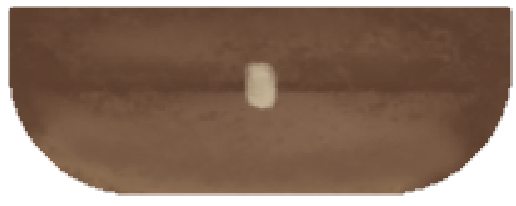
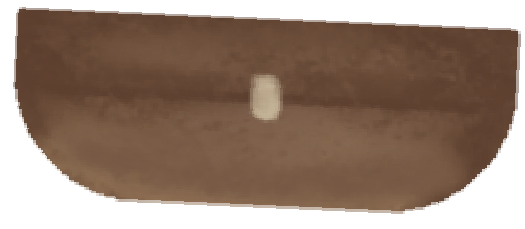
Add Chest and Locker

Changed region(s): [[0.0, 0.0291, 1.0, 0.9612], [0.9302, 0.6117, 0.9612, 0.7282], [0.4651, 0.2913, 0.5271, 0.3495]]

diff --git a/src/scenes/SceneManager.java b/src/scenes/SceneManager.java
@@ -367,19 +367,13 @@ public class SceneManager {
                 startQTETransition("qte_choke");
             }
         };
-        //scene_6
-        Item Locker = new Item("locker", 1248, 550, 356, 303, "ลิ้นชัก", "ลิ้นชักว่าวพ่อ", "locker.png", "candleStroke.png") {
-            @Override
-            public void onInteract(Player p) {
-                //this.setVisible(false);
-            }
-        };
-        Item Chest = new Item("chest", 1330, 476, 198, 73, "กล่อง", "กล่องพ่อ", "chest.png", "chestHover.png") {
-            @Override
-            public void onInteract(Player p) {
-                ui.DiaryUi.getInstance().openDiary();
-            }
-        };
+
+//        Item Chest = new Item("chest", 1330, 476, 198, 73, "กล่อง", "กล่องพ่อ", "chest.png", "chestHover.png") {
+//            @Override
+//            public void onInteract(Player p) {
+//                ui.DiaryUi.getInstance().openDiary();
+//            }
+//        };
 
         //scene_8
         Item Knife2 = createPickUpItem("knife", 400, 530, 70, 70, "มีดอาคม", "มีดอวยคม", "knife.png", "knife.png");
@@ -411,13 +405,13 @@ public class SceneManager {
 
         //scene_15
         Item Door = new Item("miniGameYan", 1850, 365, 72, 708,"ประตู", "", "DoorPic.png", "DoorPic.png") {
-            private boolean[] isSolved = {false};
+            private boolean isSolved = false;
 
             @Override
             public void onInteract(Player p) {
                 ui.MainGameFrame mainFrame = (ui.MainGameFrame) SwingUtilities.getWindowAncestor(SceneManager.this.getGamePanel());
                 RotateYan minigame = new RotateYan(mainFrame, () -> {
-                    isSolved[0] = true;
+                    isSolved = true;
                     if (fadeTransition != null && !fadeTransition.isFading()) {
                         fadeTransition.executeFade(700, 0, 500, () -> {
                             loadScene("scene_16");
@@ -437,13 +431,13 @@ public class SceneManager {
 
             @Override
             public boolean isInteractable() {
-                return !isSolved[0];
+                return !isSolved;
             }
 
         };
 
         //scene_17
-        Item fallenBox = new Item("fallenBox", 1130, 715, 214, 90,"กล่องที่ตก", "กล่อง", "fallenBox.png", "fallenBox.png") {
+        Item fallenChest = new Item("fallenChest", 900, 715, 214, 90,"กล่องที่ตก", "กล่อง", "fallenBox.png", "fallenBox.png") {
 
             @Override
             public void onInteract(Player p) {
@@ -463,6 +457,24 @@ public class SceneManager {
             }
 
         };
+
+        Item Chest = new Item("Chest", 1125, 502, 214, 90,"กล่อง", "กล่อง", "Box.png", "Box.png") {
+
+            @Override
+            public void onInteract(Player p) {
+
+            }
+
+        };
+
+        Item Locker = new Item("locker", 1248, 550, 356, 303, "ลิ้นชัก", "ลิ้นชักว่าวพ่อ", "locker.png", "locker.png") {
+            @Override
+            public void onInteract(Player p) {
+
+            }
+        };
+
+
 
 
         NPC npcGirl = new NPC("Girl", 580, 530, 170, 333, "/res/NPC/NPC1_a.PNG", 12, 622, 1299);
@@ -514,6 +526,7 @@ public class SceneManager {
         Scene scene_8 = scenes.get("scene_8");
         Scene scene_15 = scenes.get("scene_15");
         Scene scene_17 = scenes.get("scene_17");
+        Scene scene_18 = scenes.get("scene_18");
 
         if (scene_1 != null) {
             scene_1.addGameObject(Daddy_Pic);
@@ -551,7 +564,11 @@ public class SceneManager {
             scene_15.addGameObject(Door);
         }
         if (scene_17 != null) {
-            scene_17.addGameObject(fallenBox);
+            scene_17.addGameObject(fallenChest);
+        }
+        if (scene_18 != null) {
+            scene_18.addGameObject(Chest);
+            scene_18.addGameObject(Locker);
         }
     }
 

diff --git a/src/scenes/TestScene.java b/src/scenes/TestScene.java
@@ -47,7 +47,7 @@ public class TestScene {
         if (gamePanel.sceneManager != null) {
 
             // สั่งโหลดฉาก 15 ทันที
-            gamePanel.sceneManager.loadScene("scene_17");
+            gamePanel.sceneManager.loadScene("scene_18");
 
             // 💡 (แถม) ถ้าอยากให้พระเอกไปยืนตรงจุดใดจุดหนึ่งของจอเพื่อเทสต์ไอเทมใกล้ๆ
             // เอาคอมเมนต์ออกแล้วแก้เลขพิกัดได้เลยครับ
